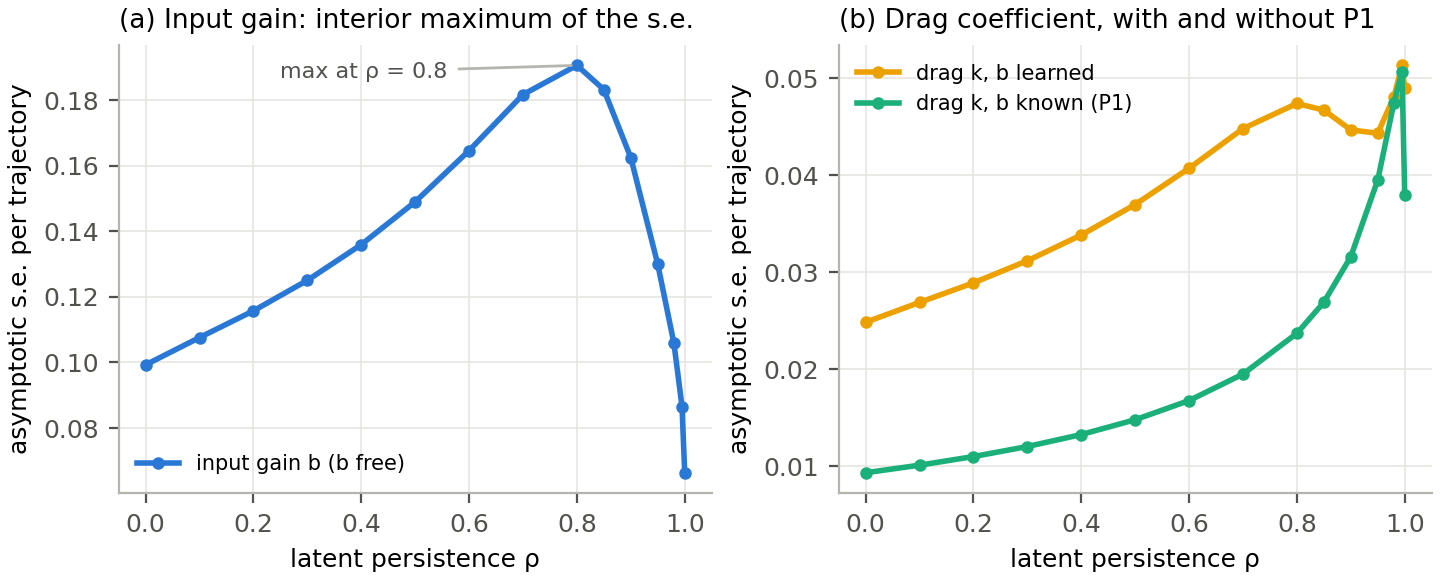
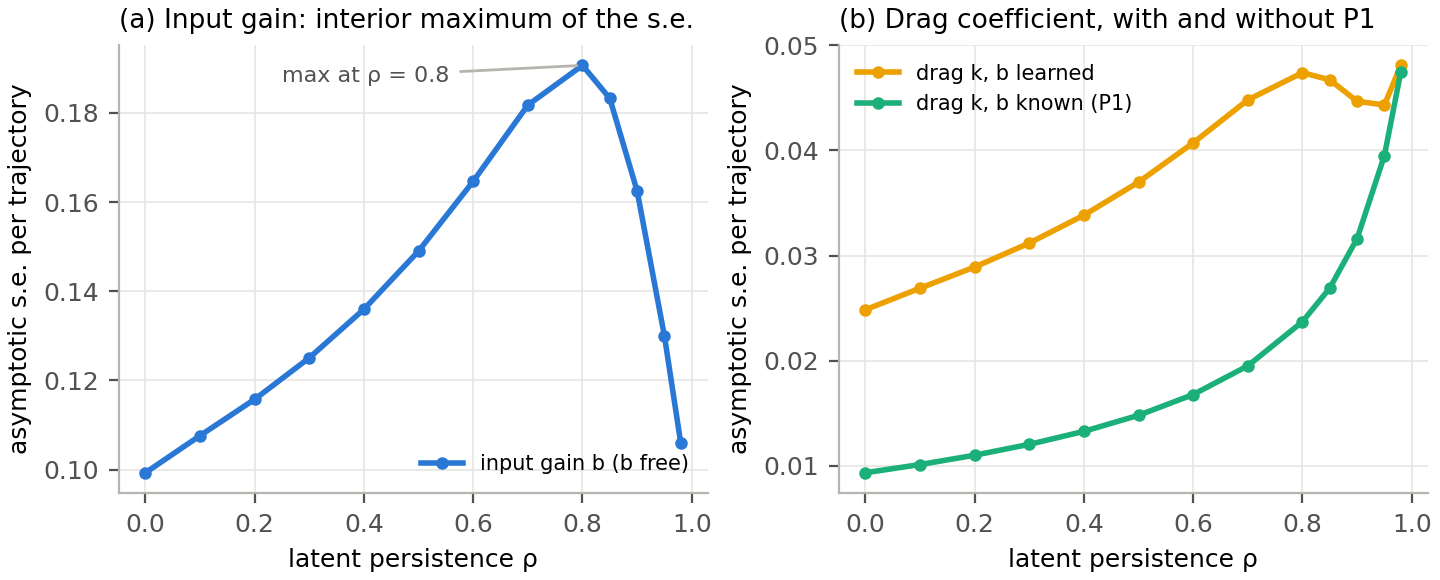
Figure labels

diff --git a/plot_exp2.py b/plot_exp2.py
@@ -6,7 +6,7 @@ A = json.load(open(os.path.join(HERE, "exp2_aggregate.json")))
 worlds = ['AR1', 'PWC', 'SINE']; labels = {'AR1': 'AR(1) latent\n(well specified)', 'PWC': 'piecewise-constant\n(misspecified)', 'SINE': 'sinusoidal\n(misspecified)'}
 ests = ['NAIVE', 'NDO-Z', 'DKF', 'DKF-B']
 C = {'NAIVE': '#eb6834', 'NDO-Z': '#2a78d6', 'DKF': '#eda100', 'DKF-B': '#1baf7a'}
-L = {'NAIVE': 'Naive one-step', 'NDO-Z': 'NDO + trajectory latent', 'DKF': 'Latent-process NDO (b learned)', 'DKF-B': 'Latent-process NDO + known input gain'}
+L = {'NAIVE': 'NAIVE (one-step simulator)', 'NDO-Z': 'NDO-Z (trajectory latent)', 'DKF': 'DKF (latent process, b learned)', 'DKF-B': 'DKF-B (latent process, b known)'}
 plt.rcParams.update({"font.size": 9, "axes.spines.top": False, "axes.spines.right": False, "axes.edgecolor": "#b5b4ae",
                      "xtick.color": "#52514e", "ytick.color": "#52514e", "axes.grid": True, "grid.color": "#e6e5e0", "grid.linewidth": 0.6, "axes.axisbelow": True})
 fig, axes = plt.subplots(1, 2, figsize=(11, 3.5), constrained_layout=True)

diff --git a/plot_fisher.py b/plot_fisher.py
@@ -4,6 +4,7 @@ HERE=os.path.dirname(os.path.abspath(__file__)); R=json.load(open(os.path.join(H
 rho=[r['rho'] for r in R]
 plt.rcParams.update({"font.size":9,"axes.spines.top":False,"axes.spines.right":False,"axes.edgecolor":"#b5b4ae","xtick.color":"#52514e","ytick.color":"#52514e","axes.grid":True,"grid.color":"#e6e5e0","grid.linewidth":0.6})
 fig,ax=plt.subplots(1,2,figsize=(7.2,2.9),constrained_layout=True)
+R=[r for r in R if r['rho']<=0.98]; rho=[r['rho'] for r in R]
 ax[0].plot(rho,[r['se_b'] for r in R],color="#2a78d6",lw=2,marker="o",ms=3.5,label="input gain b (b free)")
 ax[0].set_xlabel("latent persistence ρ"); ax[0].set_ylabel("asymptotic s.e. per trajectory"); ax[0].set_title("(a) Input gain: interior maximum of the s.e.",loc='left',fontsize=9.5)
 i=int(np.argmax([r['se_b'] for r in R])); ax[0].annotate(f"max at ρ = {rho[i]}",(rho[i],R[i]['se_b']),xytext=(0.25,R[i]['se_b']*0.98),fontsize=8,color="#52514e",arrowprops=dict(arrowstyle='-',color="#b5b4ae"))

diff --git a/plot_exp1.py b/plot_exp1.py
@@ -7,7 +7,7 @@ HERE = os.path.dirname(os.path.abspath(__file__))
 R = json.load(open(os.path.join(HERE, "exp1_results.json")))
 u = np.array(R["u_grid"]); gt = np.array(R["gt"])
 C = {"NAIVE": "#eb6834", "NDO-Z": "#2a78d6", "NDO-ZB": "#1baf7a"}
-L = {"NAIVE": "Naive neural simulator", "NDO-Z": "NDO + trajectory latent", "NDO-ZB": "NDO + latent + known input gain"}
+L = {"NAIVE": "NAIVE (one-step simulator)", "NDO-Z": "NDO-Z (trajectory latent)", "NDO-ZB": "NDO-ZB (trajectory latent + known gain)"}
 
 plt.rcParams.update({"font.size": 9, "axes.spines.top": False, "axes.spines.right": False,
                      "axes.edgecolor": "#b5b4ae", "axes.labelcolor": "#0b0b0b", "xtick.color": "#52514e",
